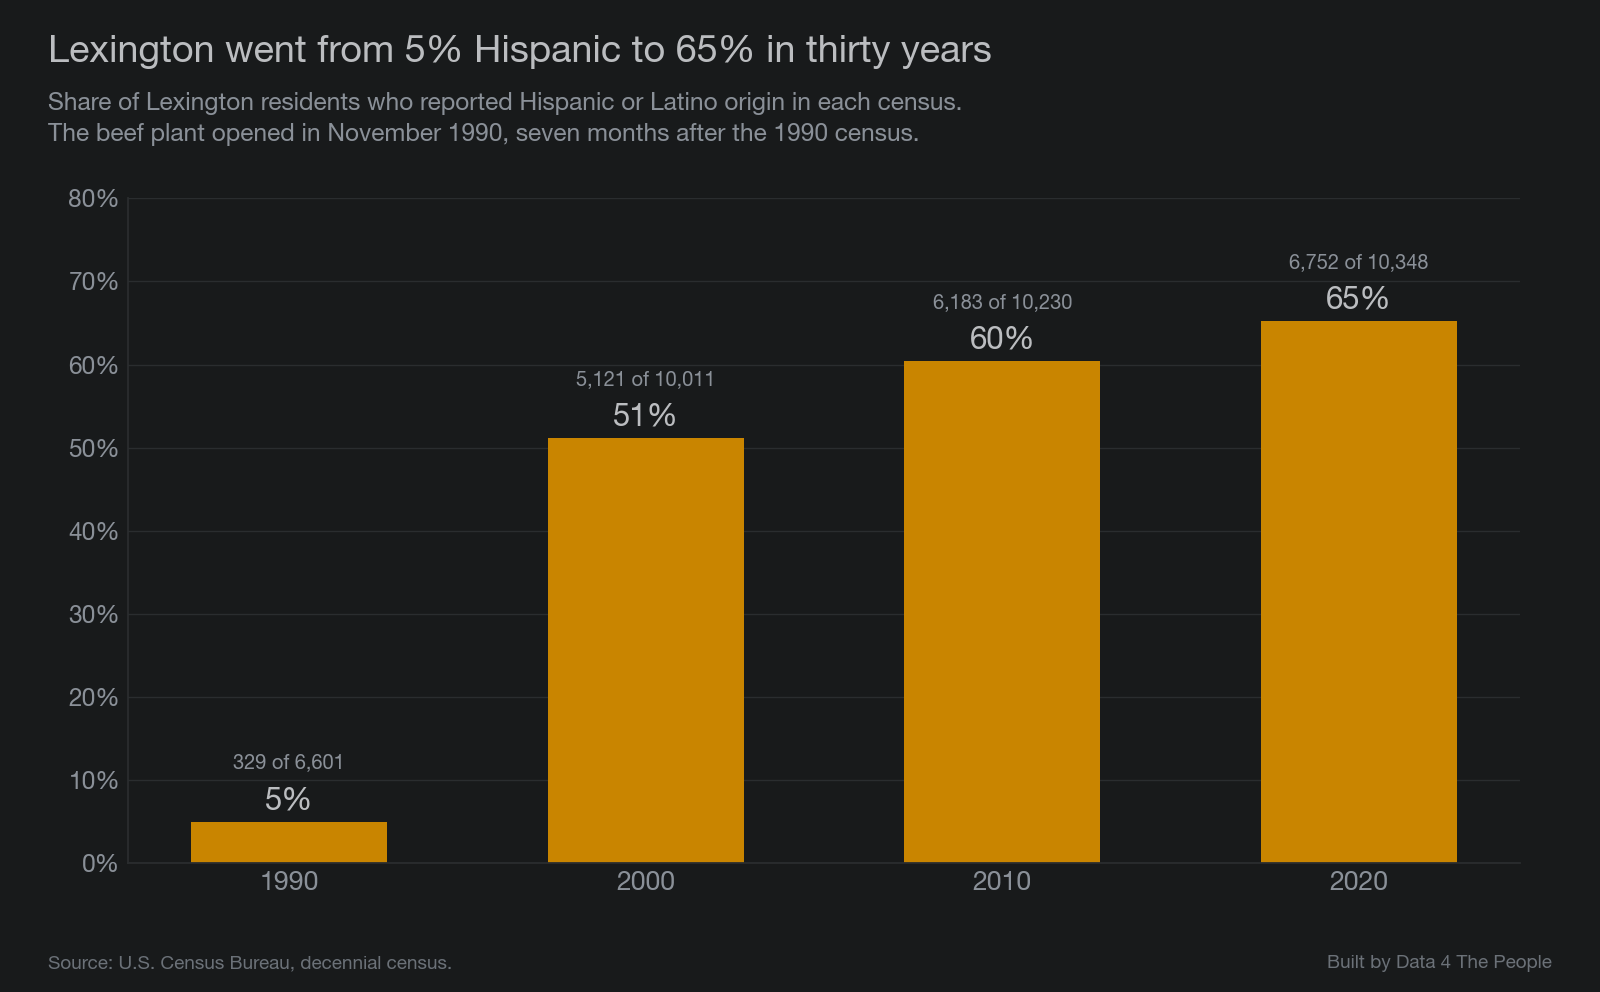
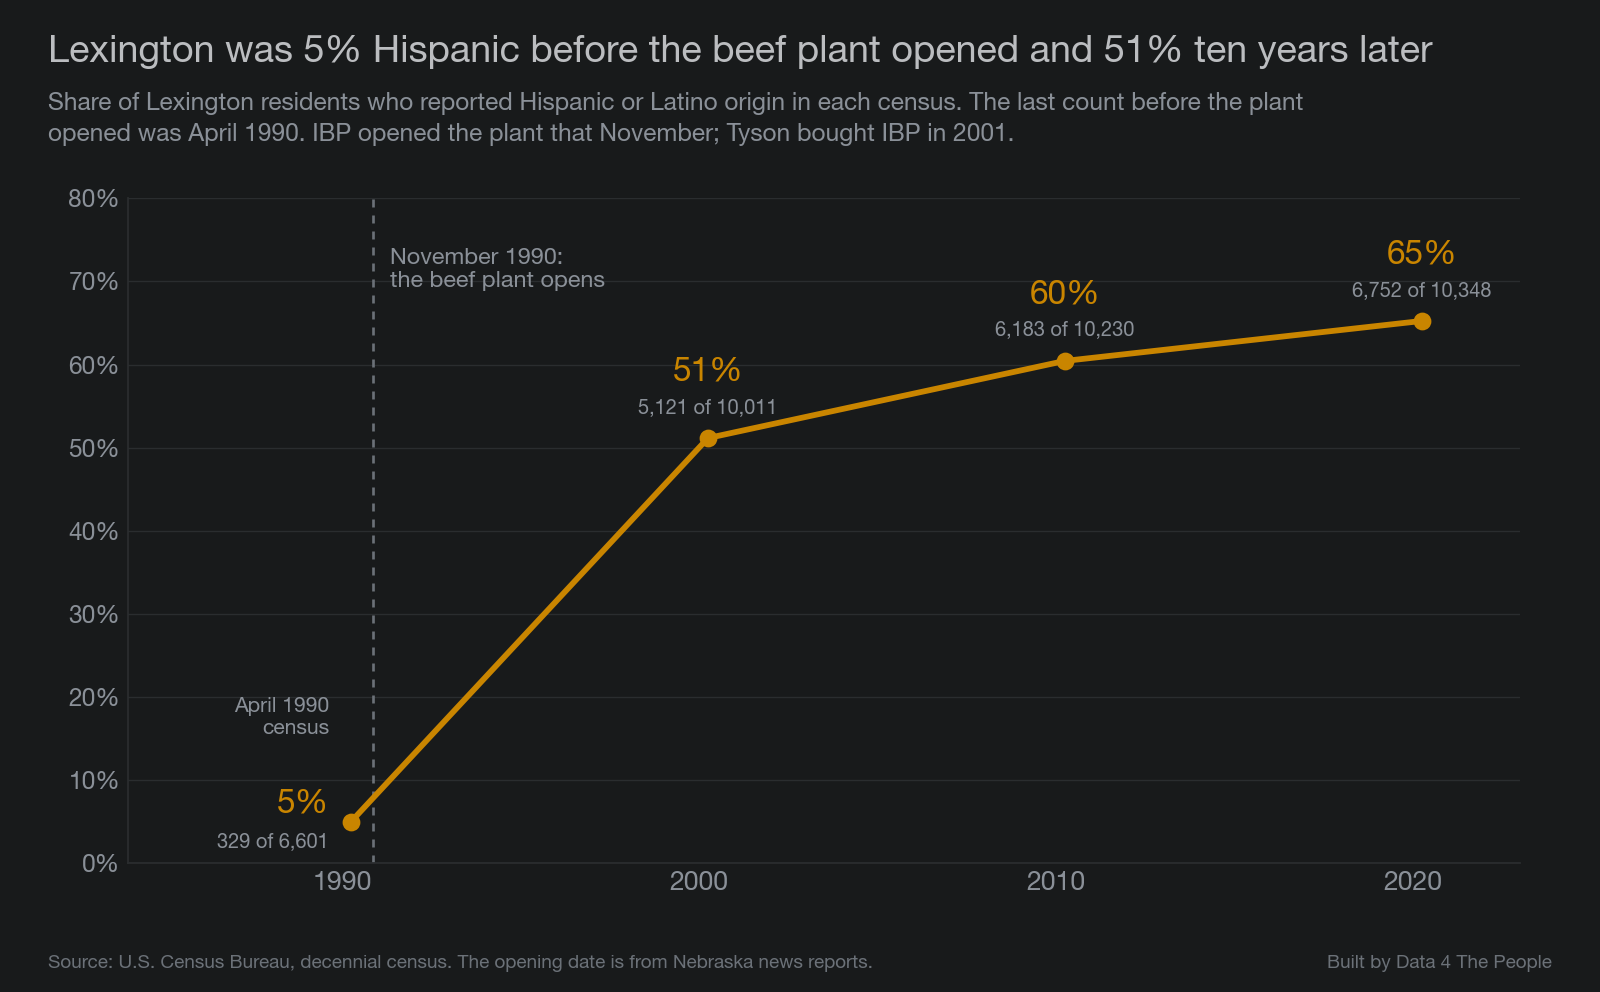
dawson-county: Hispanic share chart marks when the plant opened

diff --git a/scripts/charts.py b/scripts/charts.py
@@ -73,20 +73,30 @@ def population():
 # ---------------------------------------------------------------- 02 Hispanic share
 def hispanic():
     d = [r for r in read_csv("decennial_population.csv") if r["geography"] == "Lexington city" and r["hispanic_or_latino"]]
-    ys = [int(r["year"]) for r in d]
+    ys = [int(r["year"]) + 0.25 for r in d]                 # each census is taken on April 1
     sh = [100 * int(r["hispanic_or_latino"]) / int(r["population"]) for r in d]
     fig, ax = frame(left=0.08)
-    ax.bar([str(y) for y in ys], sh, color=YELLOW, width=0.55)
-    for i, (r, v) in enumerate(zip(d, sh)):
-        ax.text(i, v + 1.5, f"{v:.0f}%", ha="center", color=INK, fontsize=14, fontweight="bold")
-        ax.text(i, v + 6.3, f"{int(r['hispanic_or_latino']):,} of {int(r['population']):,}", ha="center", color=INK_DIM, fontsize=9)
+    opened = 1990 + 10.25 / 12                              # production began November 8, 1990
+    ax.axvline(opened, color=MUTED, lw=1.2, ls=(0, (3, 3)))
+    ax.text(opened + 0.5, 74, "November 1990:\nthe beef plant opens", color=INK_DIM, fontsize=10.5, ha="left", va="top")
+    ax.plot(ys, sh, color=YELLOW, lw=2.6, marker="o", ms=7)
+    for i, (r, x, v) in enumerate(zip(d, ys, sh)):
+        first = i == 0
+        ax.annotate(f"{v:.0f}%", (x, v), xytext=(-10, 4) if first else (0, 26), textcoords="offset points",
+                    ha="right" if first else "center", color=YELLOW, fontsize=15, fontweight="bold")
+        ax.annotate(f"{int(r['hispanic_or_latino']):,} of {int(r['population']):,}", (x, v),
+                    xytext=(-10, -12) if first else (0, 11), textcoords="offset points",
+                    ha="right" if first else "center", color=INK_DIM, fontsize=9)
+    ax.text(ys[0] - 0.6, 15, "April 1990\ncensus", color=INK_DIM, fontsize=9.5, ha="right", va="bottom")
     ax.set_ylim(0, 80)
+    ax.set_xlim(1984, 2023)
+    ax.set_xticks([1990, 2000, 2010, 2020])
     ax.yaxis.set_major_formatter(matplotlib.ticker.PercentFormatter(decimals=0))
     ax.tick_params(axis="x", labelsize=12)
-    titleblock(fig, "Lexington went from 5% Hispanic to 65% in thirty years",
-               "Share of Lexington residents who reported Hispanic or Latino origin in each census.\n"
-               "The beef plant opened in November 1990, seven months after the 1990 census.")
-    credit(fig, "Source: U.S. Census Bureau, decennial census.")
+    titleblock(fig, f"Lexington was {sh[0]:.0f}% Hispanic before the beef plant opened and {sh[1]:.0f}% ten years later",
+               "Share of Lexington residents who reported Hispanic or Latino origin in each census. The last count before the plant\n"
+               "opened was April 1990. IBP opened the plant that November; Tyson bought IBP in 2001.")
+    credit(fig, "Source: U.S. Census Bureau, decennial census. The opening date is from Nebraska news reports.")
     save(fig, "02-hispanic-share.png")
 
 

diff --git a/STATUS.md b/STATUS.md
@@ -85,3 +85,10 @@ None.
   independent agent because they came after it: chart 08 and the reworded
   titles. Claude's own tie-out is clean on the final build.
 
+- 2026-10-13 Chart 02 redrawn at Eric's request as a line on a time axis with
+  a marker at November 1990, when the plant opened, so the share before and
+  after can be read. Eric wants to offer the 1997 study's findings as a data
+  point, not proof, in the debate over whether immigrants take jobs
+  native-born workers do not want, tying back to his earlier reporting. What
+  the study does and does not show on that is at the end of
+  research/source-check.md.
